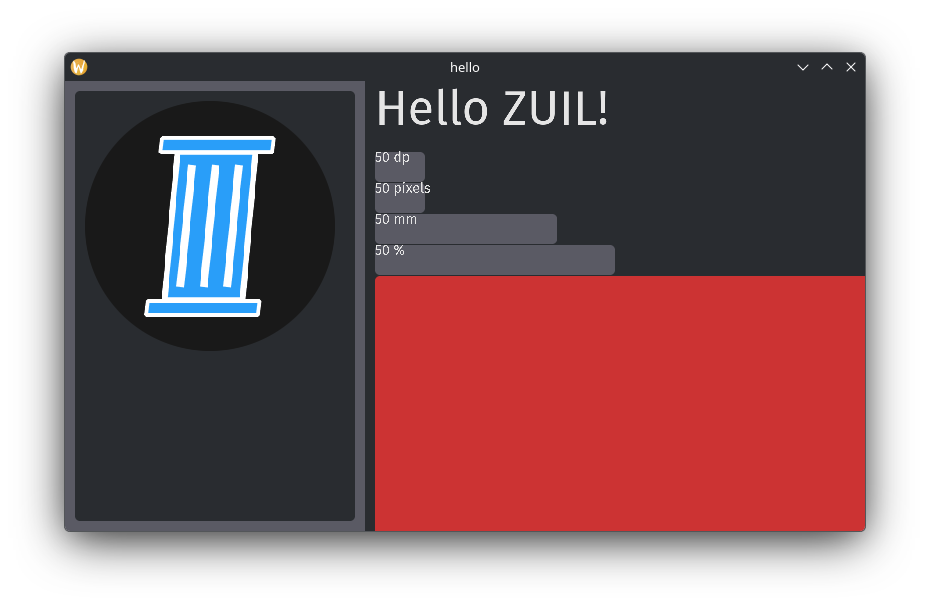
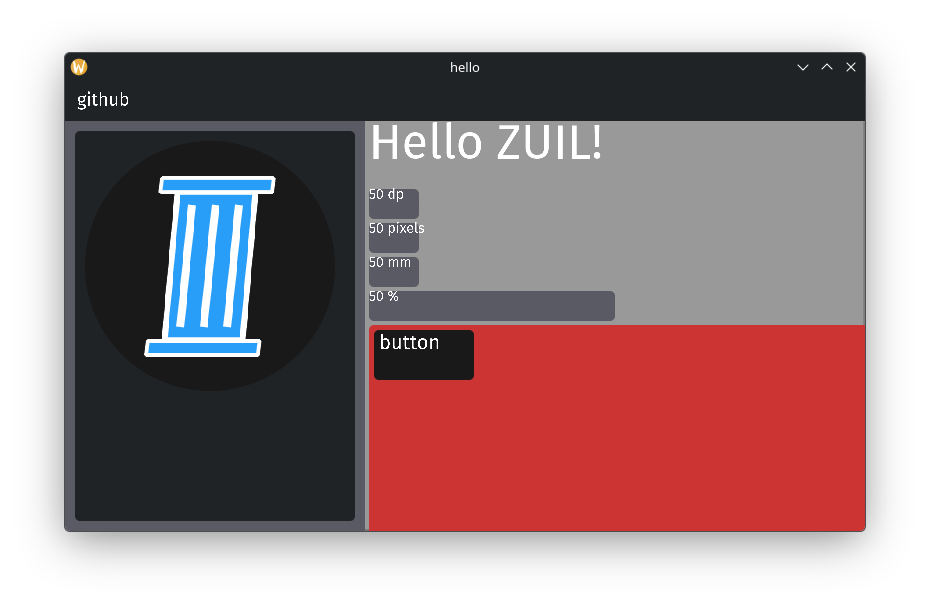
fixes
- fixed memory leaks
- update readme and screenshot

Changed region(s): [[0.0312, 0.125, 0.9667, 0.9375], [0.0935, 0.0625, 0.9043, 0.0938]]

diff --git a/README.md b/README.md
@@ -27,22 +27,6 @@ using `sdl3`, `zopengl`, `plutosvg`, `harfbuzz` and `freetype` libs
 
 ### current plan
 
-usage (with app module):
-1. core
-   1. init asset registry
-   2. init theme
-2. app
-   1. init app module
-3. widgets
-   1. register widget lib context
-   2. register style to theme
-4. user
-   1. register assets
-   2. init widget tree
-   3. init window
-5. app
-   1. app run
-
 rendering:\
 replace renderer with a painter interface system and allow casting to the actual backend if its a know type for more advanced stuff
 
@@ -95,7 +79,7 @@ there is a test/example project in the `test` directory
 keybinds:
 
 - `space`: change the background color
-- `F1`: spawn a new window (currently broken)
+- `F1`: spawn a new window
 
 ## project structure
 
